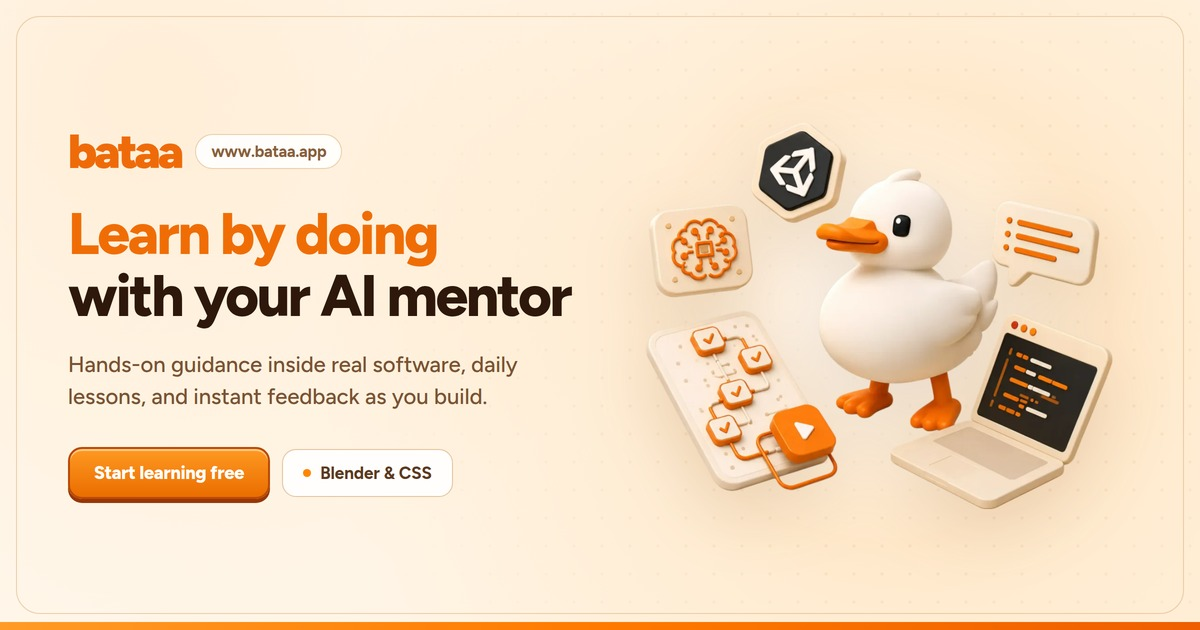
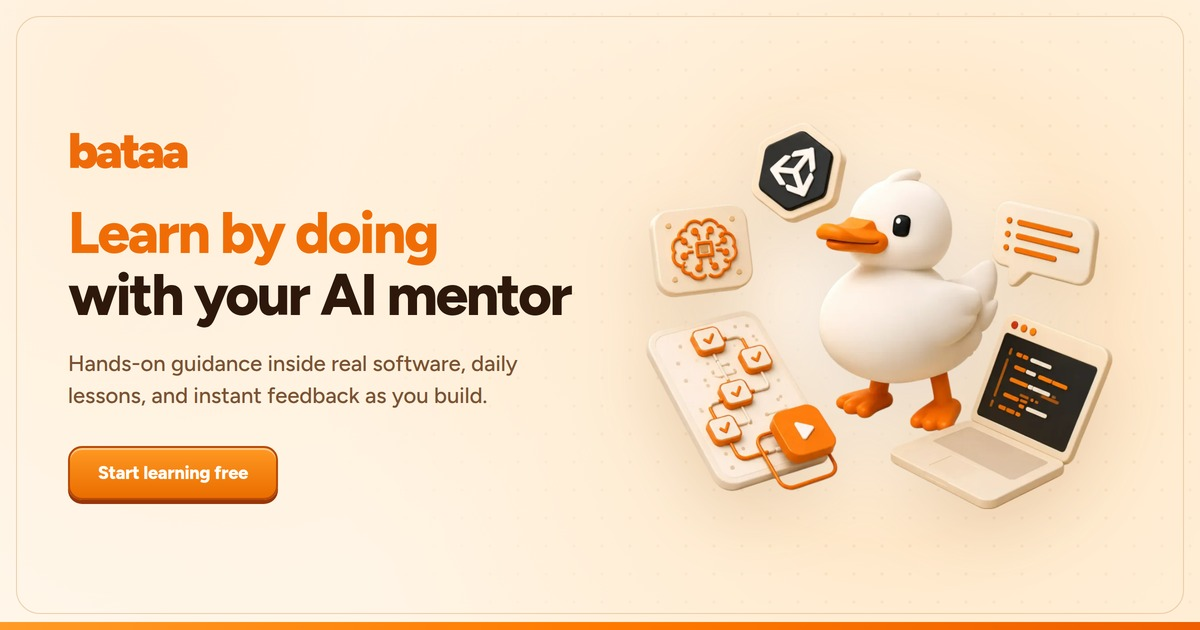
web: remove extra pills from OG preview photo

diff --git a/web/index.html b/web/index.html
@@ -20,8 +20,8 @@
       property="og:description"
       content="Hands-on guidance inside real software, daily lessons, and instant feedback as you build real projects."
     />
-    <meta property="og:image" content="https://www.bataa.app/og-image.jpg" />
-    <meta property="og:image:secure_url" content="https://www.bataa.app/og-image.jpg" />
+    <meta property="og:image" content="https://www.bataa.app/og-image.jpg?v=2" />
+    <meta property="og:image:secure_url" content="https://www.bataa.app/og-image.jpg?v=2" />
     <meta property="og:image:type" content="image/jpeg" />
     <meta property="og:image:width" content="1200" />
     <meta property="og:image:height" content="630" />
@@ -35,7 +35,7 @@
       name="twitter:description"
       content="Hands-on guidance inside real software, daily lessons, and instant feedback as you build real projects."
     />
-    <meta name="twitter:image" content="https://www.bataa.app/og-image.jpg" />
+    <meta name="twitter:image" content="https://www.bataa.app/og-image.jpg?v=2" />
     <meta name="twitter:image:alt" content="Bataa — Learn by doing with your AI mentor" />
 
     <link rel="icon" type="image/svg+xml" href="/duck.svg" />
